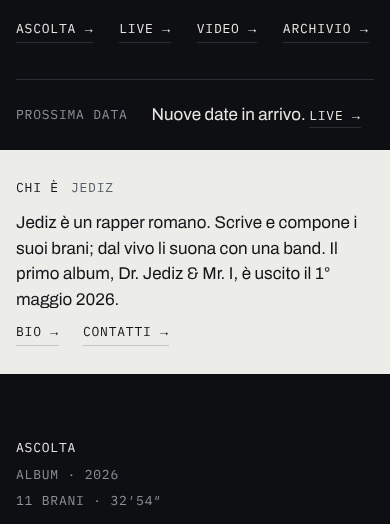
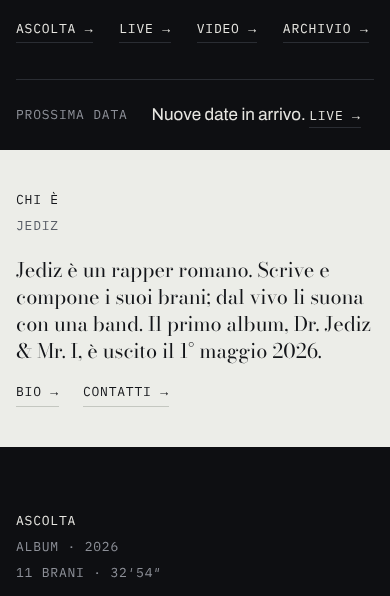
Home: «Chi è» torna in serif, più piccolo e con meno spazio
Claude-Session: https://claude.ai/code/session_01CbgEtHaQrNrFjWfMkNVpU5

diff --git a/jediz-sito/src/site.css b/jediz-sito/src/site.css
@@ -141,11 +141,9 @@ ul, ol { margin: 0; padding: 0; list-style: none; }
 .slate .label { color: var(--mute); }
 
 /* ---------- identità ---------- */
-.band.ident { padding-block: clamp(28px, 4vw, 48px); }
-.ident .rail { align-items: baseline; gap: 12px 32px; }
-@media (max-width: 899px) { .ident .rail > .rail-meta { flex-direction: row; gap: 12px; } }
-.ident-body { display: flex; flex-wrap: wrap; align-items: baseline; gap: 10px 32px; }
-.ident-body p { margin: 0; font-size: var(--step-0); line-height: 1.5; max-width: 62ch; }
+.band.ident { padding-block: clamp(40px, 5.5vw, 72px); }
+.ident-body { display: grid; gap: 18px; }
+.ident-body p { margin: 0; font-family: var(--f-display); font-size: clamp(1.25rem, 1.1rem + .6vw, 1.5rem); line-height: 1.35; font-variation-settings: "opsz" 24; max-width: 40ch; }
 
 /* ---------- player ---------- */
 .player { display: grid; gap: clamp(24px, 4vw, 56px); }
